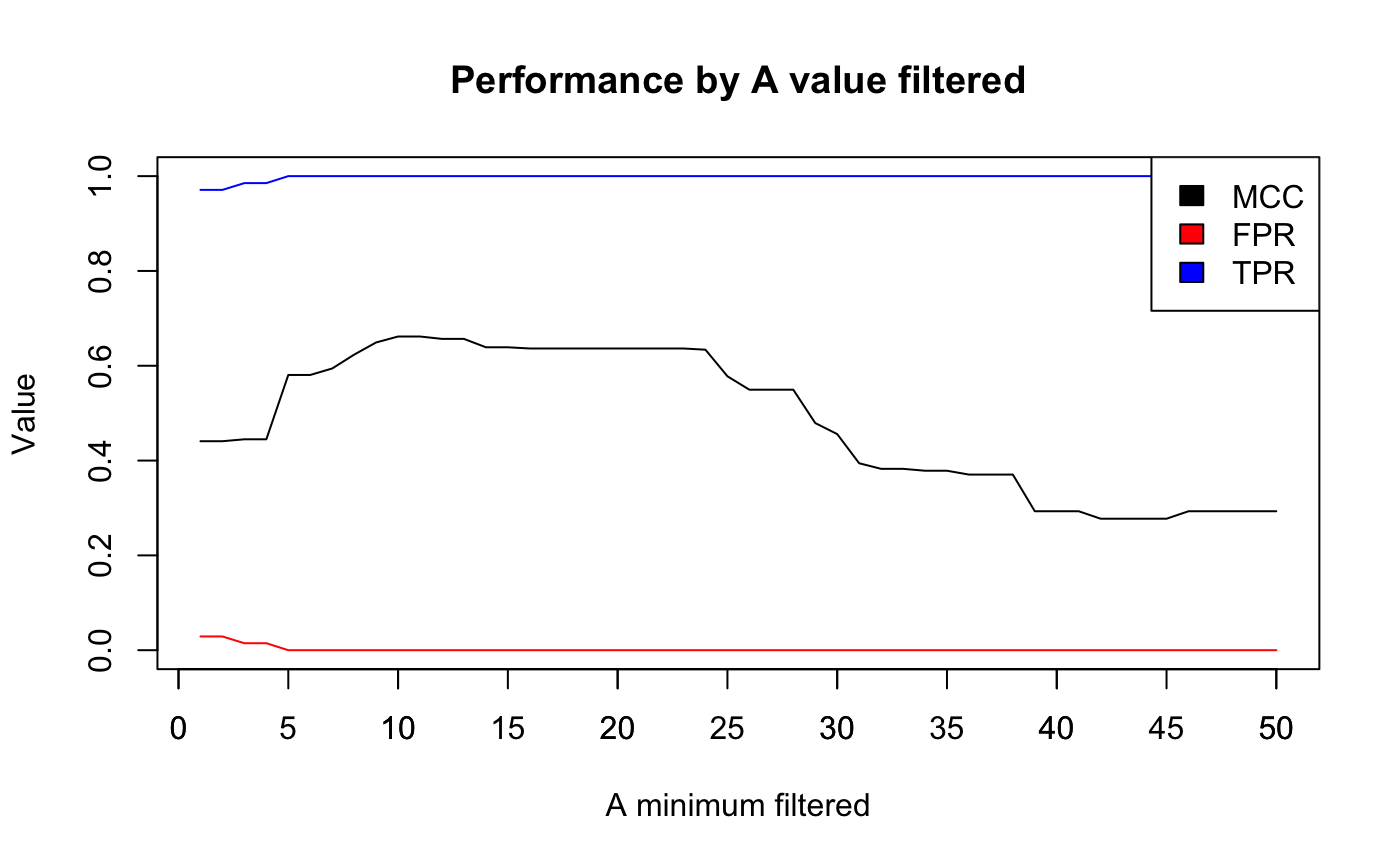
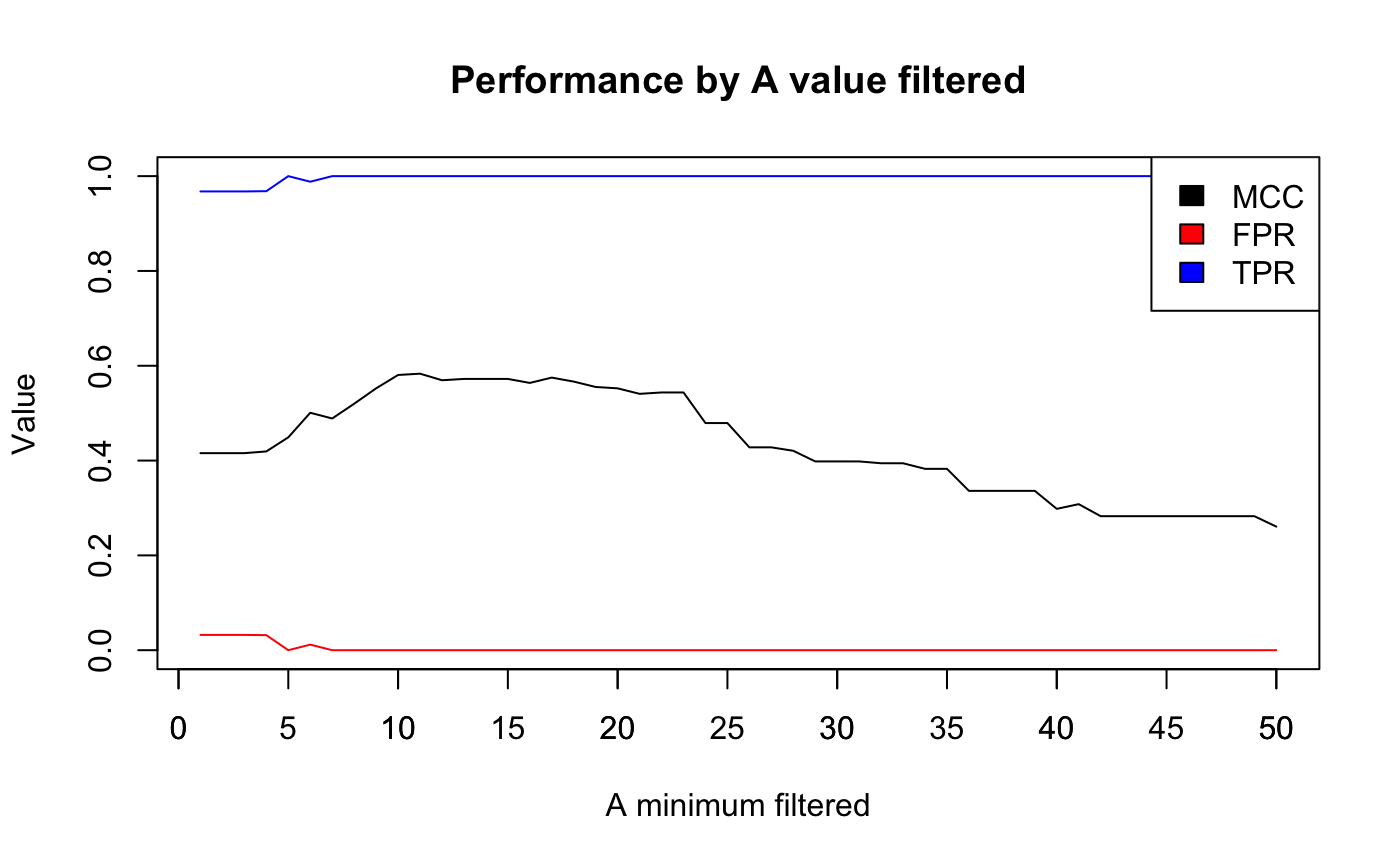
Built site for HiCcompare: 1.11.1@

diff --git a/index.html b/index.html
@@ -88,10 +88,8 @@
   <div class="contents col-md-9">
 <div id="hiccompare" class="section level1">
 <div class="page-header"><h1 class="hasAnchor">
-<a href="#hiccompare" class="anchor"></a>HiCcompare</h1></div>
-<p>Stansfield, John C., Kellen G. Cresswell, Vladimir I. Vladimirov, and Mikhail G. Dozmorov. <a href="https://doi.org/10.1186/s12859-018-2288-x">HiCcompare: An R-Package for Joint Normalization and Comparison of HI-C Datasets</a>. <em>BMC Bioinformatics</em> 19, no. 1 (December 2018).</p>
-<p>Stansfield, John C., Duc Tran, Tin Nguyen, and Mikhail G. Dozmorov. <a href="https://doi.org/10.1002/cpbi.76">R Tutorial: Detection of Differentially Interacting Chromatin Regions From Multiple Hi-C Datasets</a>. Current Protocols in Bioinformatics, May 2019</p>
-<p><a href="https://github.com/mdozmorov/HiCcompareWorkshop">HiCcompareWorkshop</a> - “Detection of Differentially Interacting Chromatin Regions From Multiple Hi-C Datasets” workshop presented on Bioconductor 2020 conference</p>
+<a href="#hiccompare" class="anchor"></a><a href="https://dozmorovlab.github.io/HiCcompare/">HiCcompare</a>
+</h1></div>
 <div id="overview" class="section level2">
 <h2 class="hasAnchor">
 <a href="#overview" class="anchor"></a>Overview</h2>
@@ -106,7 +104,7 @@
 <li>
 <code><a href="reference/hic_compare.html">hic_compare()</a></code> - performs the difference detection process to detect significant changes between Hi-C datasets and assist in comparative analysis</li>
 </ul>
-<p>Several demo Hi-C datasets are also included in the package.</p>
+<p>Several demo Hi-C datasets are also included in the package. Refer to the <code>HiCcompare</code> vignette for full usage instructions, <code><a href="articles/HiCcompare-vignette.html">vignette("HiCcompare-vignette")</a></code></p>
 </div>
 <div id="installation" class="section level2">
 <h2 class="hasAnchor">
@@ -136,7 +134,6 @@
 <span class="fu"><a href="https://devtools.r-lib.org//reference/remote-reexports.html">install_github</a></span>(<span class="st">'dozmorovlab/HiCcompare'</span>, build_vignettes = <span class="fl">TRUE</span>)
 <span class="fu"><a href="https://rdrr.io/r/base/library.html">library</a></span>(<span class="kw">HiCcompare</span>)
 </pre></div>
-<p>Refer to the <code>HiCcompare</code> vignette for full usage instructions, <code><a href="articles/HiCcompare-vignette.html">vignette("HiCcompare-vignette")</a></code></p>
 </div>
 <div id="usage" class="section level2">
 <h2 class="hasAnchor">
@@ -161,6 +158,13 @@
 <span class="kw">hic.table</span> <span class="op">=</span> <span class="fu"><a href="reference/hic_compare.html">hic_compare</a></span>(<span class="kw">hic.table</span>, Plot = <span class="fl">TRUE</span>)
 <span class="fu"><a href="https://rdrr.io/r/utils/head.html">head</a></span>(<span class="kw">hic.table</span>)
 </pre></div>
+</div>
+<div id="citations" class="section level2">
+<h2 class="hasAnchor">
+<a href="#citations" class="anchor"></a>Citations</h2>
+<p>Stansfield, John C., Kellen G. Cresswell, Vladimir I. Vladimirov, and Mikhail G. Dozmorov. <a href="https://doi.org/10.1186/s12859-018-2288-x">HiCcompare: An R-Package for Joint Normalization and Comparison of HI-C Datasets</a>. <em>BMC Bioinformatics</em> 19, no. 1 (December 2018).</p>
+<p>Stansfield, John C., Duc Tran, Tin Nguyen, and Mikhail G. Dozmorov. <a href="https://doi.org/10.1002/cpbi.76">R Tutorial: Detection of Differentially Interacting Chromatin Regions From Multiple Hi-C Datasets</a>. Current Protocols in Bioinformatics, May 2019</p>
+<p><a href="https://github.com/mdozmorov/HiCcompareWorkshop">HiCcompareWorkshop</a> - “Detection of Differentially Interacting Chromatin Regions From Multiple Hi-C Datasets” workshop presented on Bioconductor 2020 conference</p>
 </div>
 <div id="additional-vignettes" class="section level2">
 <h2 class="hasAnchor">

diff --git a/articles/HiCcompare-vignette.html b/articles/HiCcompare-vignette.html
@@ -766,14 +766,14 @@ Z_i = \frac{M_i - \bar{M}}{\sigma_M}
 
 <span class="kw">sim_results</span> <span class="op">&lt;-</span> <span class="fu"><a href="../reference/hic_simulate.html">hic_simulate</a></span>(nrow = <span class="kw">number_of_unitdistances</span>, medianIF = <span class="fl">50000</span>, sdIF = <span class="fl">14000</span>, powerlaw.alpha = <span class="fl">1.8</span>, fold.change = <span class="fl">4</span>, i.range = <span class="kw">i.range</span>, j.range = <span class="kw">j.range</span>, Plot = <span class="fl">TRUE</span>, alpha = <span class="fl">0.1</span>)
 </pre></div>
-<pre><code>## Span for loess: 0.212770648399734</code></pre>
-<pre><code>## GCV for loess: 0.000115595383786921</code></pre>
-<pre><code>## AIC for loess: 0.40401939084367</code></pre>
-<pre><code>## Filtering out interactions with A &lt; 99</code></pre>
+<pre><code>## Span for loess: 0.178135370007652</code></pre>
+<pre><code>## GCV for loess: 0.000110247906904958</code></pre>
+<pre><code>## AIC for loess: 0.353097811035226</code></pre>
+<pre><code>## Filtering out interactions with A &lt; 98</code></pre>
 <p><img src="HiCcompare-vignette_files/figure-html/unnamed-chunk-21-1.png" width="672"></p>
-<pre><code>## True Positives: 211 Total added differences: 213 True Negatives: 4470</code></pre>
-<pre><code>## TPR: 0.990610328638498</code></pre>
-<pre><code>## SPC: 0.986972841686907</code></pre>
+<pre><code>## True Positives: 198 Total added differences: 200 True Negatives: 4461</code></pre>
+<pre><code>## TPR: 0.99</code></pre>
+<pre><code>## SPC: 0.986728599867286</code></pre>
 <p><img src="HiCcompare-vignette_files/figure-html/unnamed-chunk-21-2.png" width="672"></p>
 <p>The results of the simulation are saved in a list.</p>
 <div class="sourceCode" id="cb41"><pre class="downlit">
